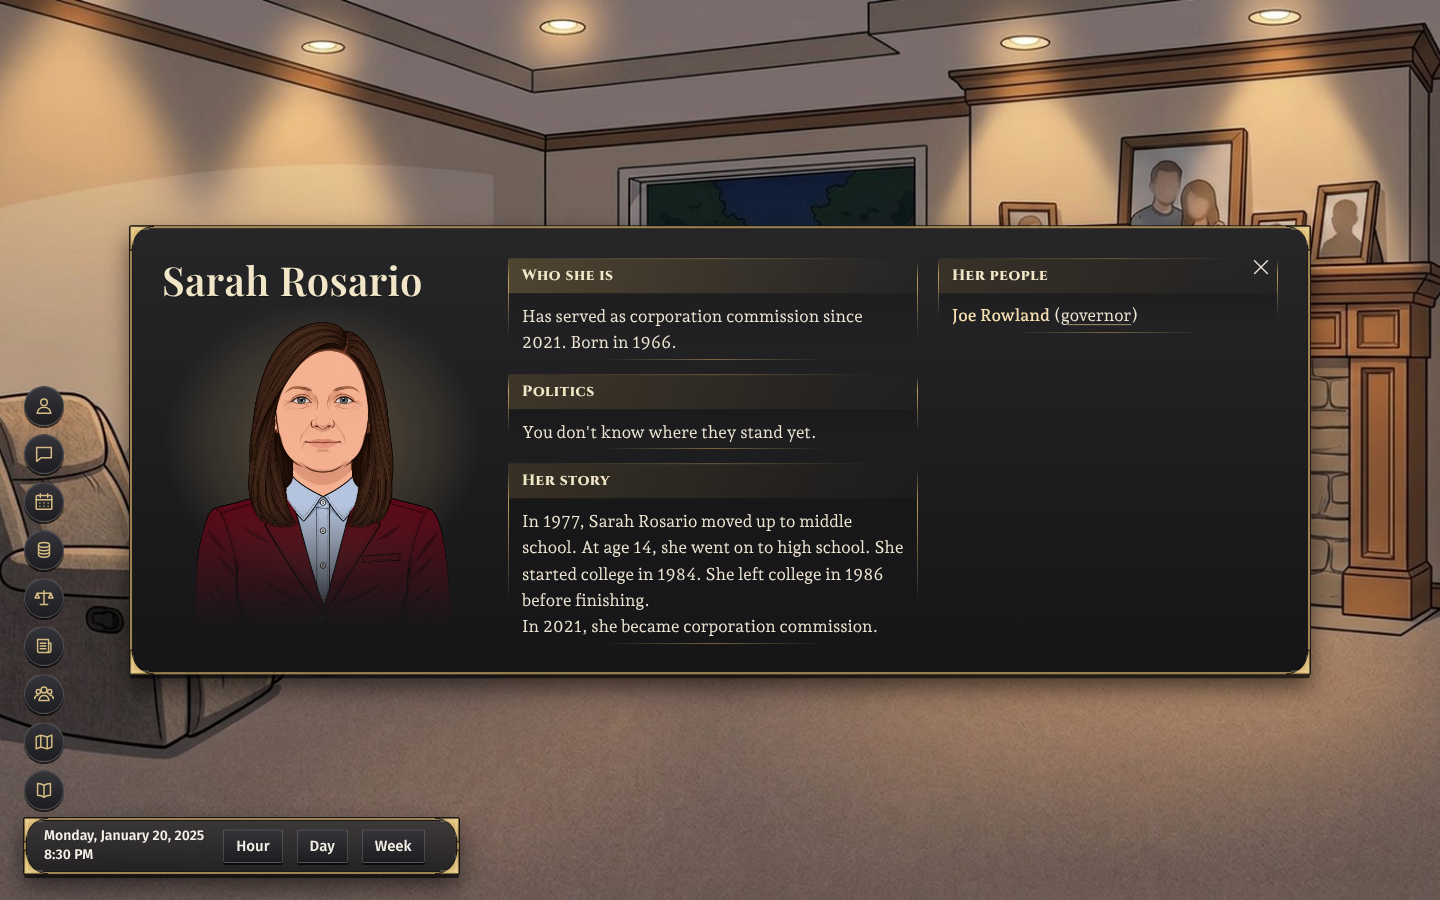
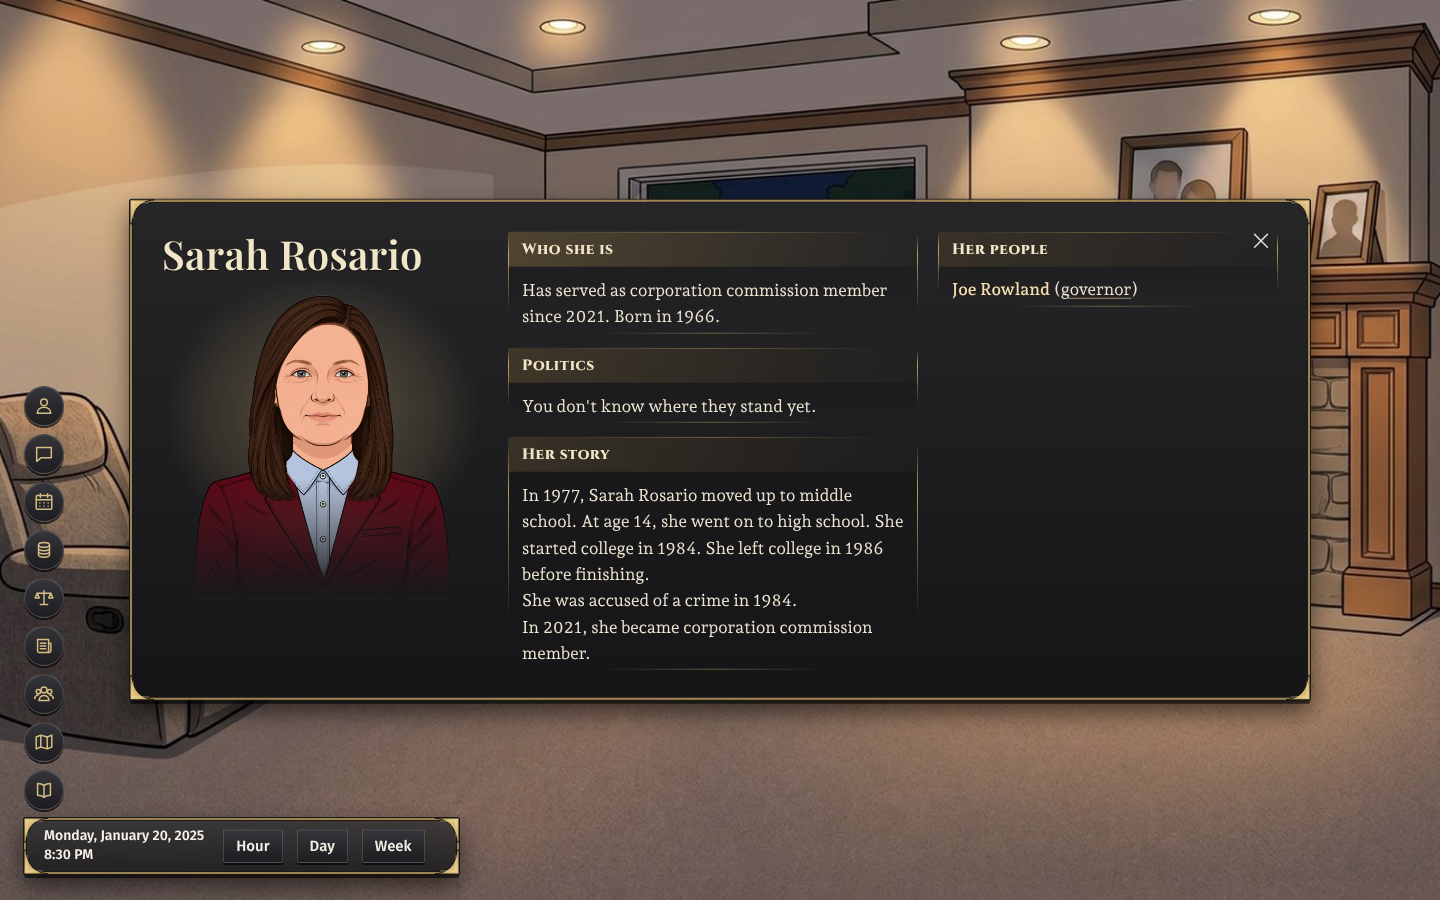
Words W2: office-title pictures after the body seat wording
Claude-Session: https://claude.ai/code/session_011uWUjXU8NN51yB7qtz2Bfg

Changed region(s): [[0.0625, 0.2178, 0.9375, 0.8089]]

diff --git a/docs/seen/w2-office-title-note/lines.md b/docs/seen/w2-office-title-note/lines.md
@@ -1,13 +1,15 @@
 # The office on a state official's card, without the form's note
 
-Bench at 1440x900: a new life, Politics, State, Executive, then the official's card. Main at 9e990d3991 (before) and this branch at 501069c755 (after).
+Bench at 1440x900: a new life, Politics, State, Executive, then the official's card. Main at 9e990d3991 (before) and this branch at e572d828c4 (after).
 
 Complaint: Fable A on the crew line, Nov 13: the card says the office the way `seatSaid` does, with no form's note read aloud.
 
-| Place (seed)                                              | Before                                                                                                 | After                                               |
-| --------------------------------------------------------- | ------------------------------------------------------------------------------------------------------ | --------------------------------------------------- |
-| Athens, Michigan (`f8aee52b-7aa0-45a2-a3f7-6820913dd30f`) | Has served as state board of education (8 members, statewide, 8-year staggered terms) since 2019.      | Has served as state board of education since 2019.  |
-| Hackleburg, Alabama (`w2o6`)                              | Has served as public service commission (president + 2 associate commissioners, statewide) since 2023. | Has served as public service commission since 2023. |
-| Vera, Oklahoma (`w2o11`)                                  | Has served as corporation commission (3 members, statewide, staggered 6-year terms) since 2021.        | Has served as corporation commission since 2021.    |
+| Place (seed)                                              | Before                                                                                                 | After                                                      |
+| --------------------------------------------------------- | ------------------------------------------------------------------------------------------------------ | ---------------------------------------------------------- |
+| Athens, Michigan (`f8aee52b-7aa0-45a2-a3f7-6820913dd30f`) | Has served as state board of education (8 members, statewide, 8-year staggered terms) since 2019.      | Has served as state board of education member since 2019.  |
+| Hackleburg, Alabama (`w2o6`)                              | Has served as public service commission (president + 2 associate commissioners, statewide) since 2023. | Has served as public service commission member since 2023. |
+| Vera, Oklahoma (`w2o11`)                                  | Has served as corporation commission (3 members, statewide, staggered 6-year terms) since 2021.        | Has served as corporation commission member since 2021.    |
 
-Still open, filed to Fable A: a member of a board or commission reads "served as public service commission"; it should read "served on the public service commission".
+Her story on the same card, Vera: "In 2021, she became corporation commission member." A title that names a board, commission, council or committee is said as one seat in it, the way the council's own seat is "council member", so it reads in every frame the story uses ("served as", "sworn in as", "the race for").
+
+Seen and not this change: Politics on a woman's card says "You don't know where they stand yet."

diff --git a/docs/release/changes/words-office-title-without-note.md b/docs/release/changes/words-office-title-without-note.md
@@ -5,4 +5,4 @@ section: Fixed
 title: A state official's card no longer reads out the office's form note
 ---
 
-A card's "Has served as" line names the office without the note in parentheses that the state's office list carries ("8 members, statewide, 8-year staggered terms").
+A card's "Has served as" line names the office without the note in parentheses that the state's office list carries ("8 members, statewide, 8-year staggered terms"), and a seat on a board or commission reads "corporation commission member".
